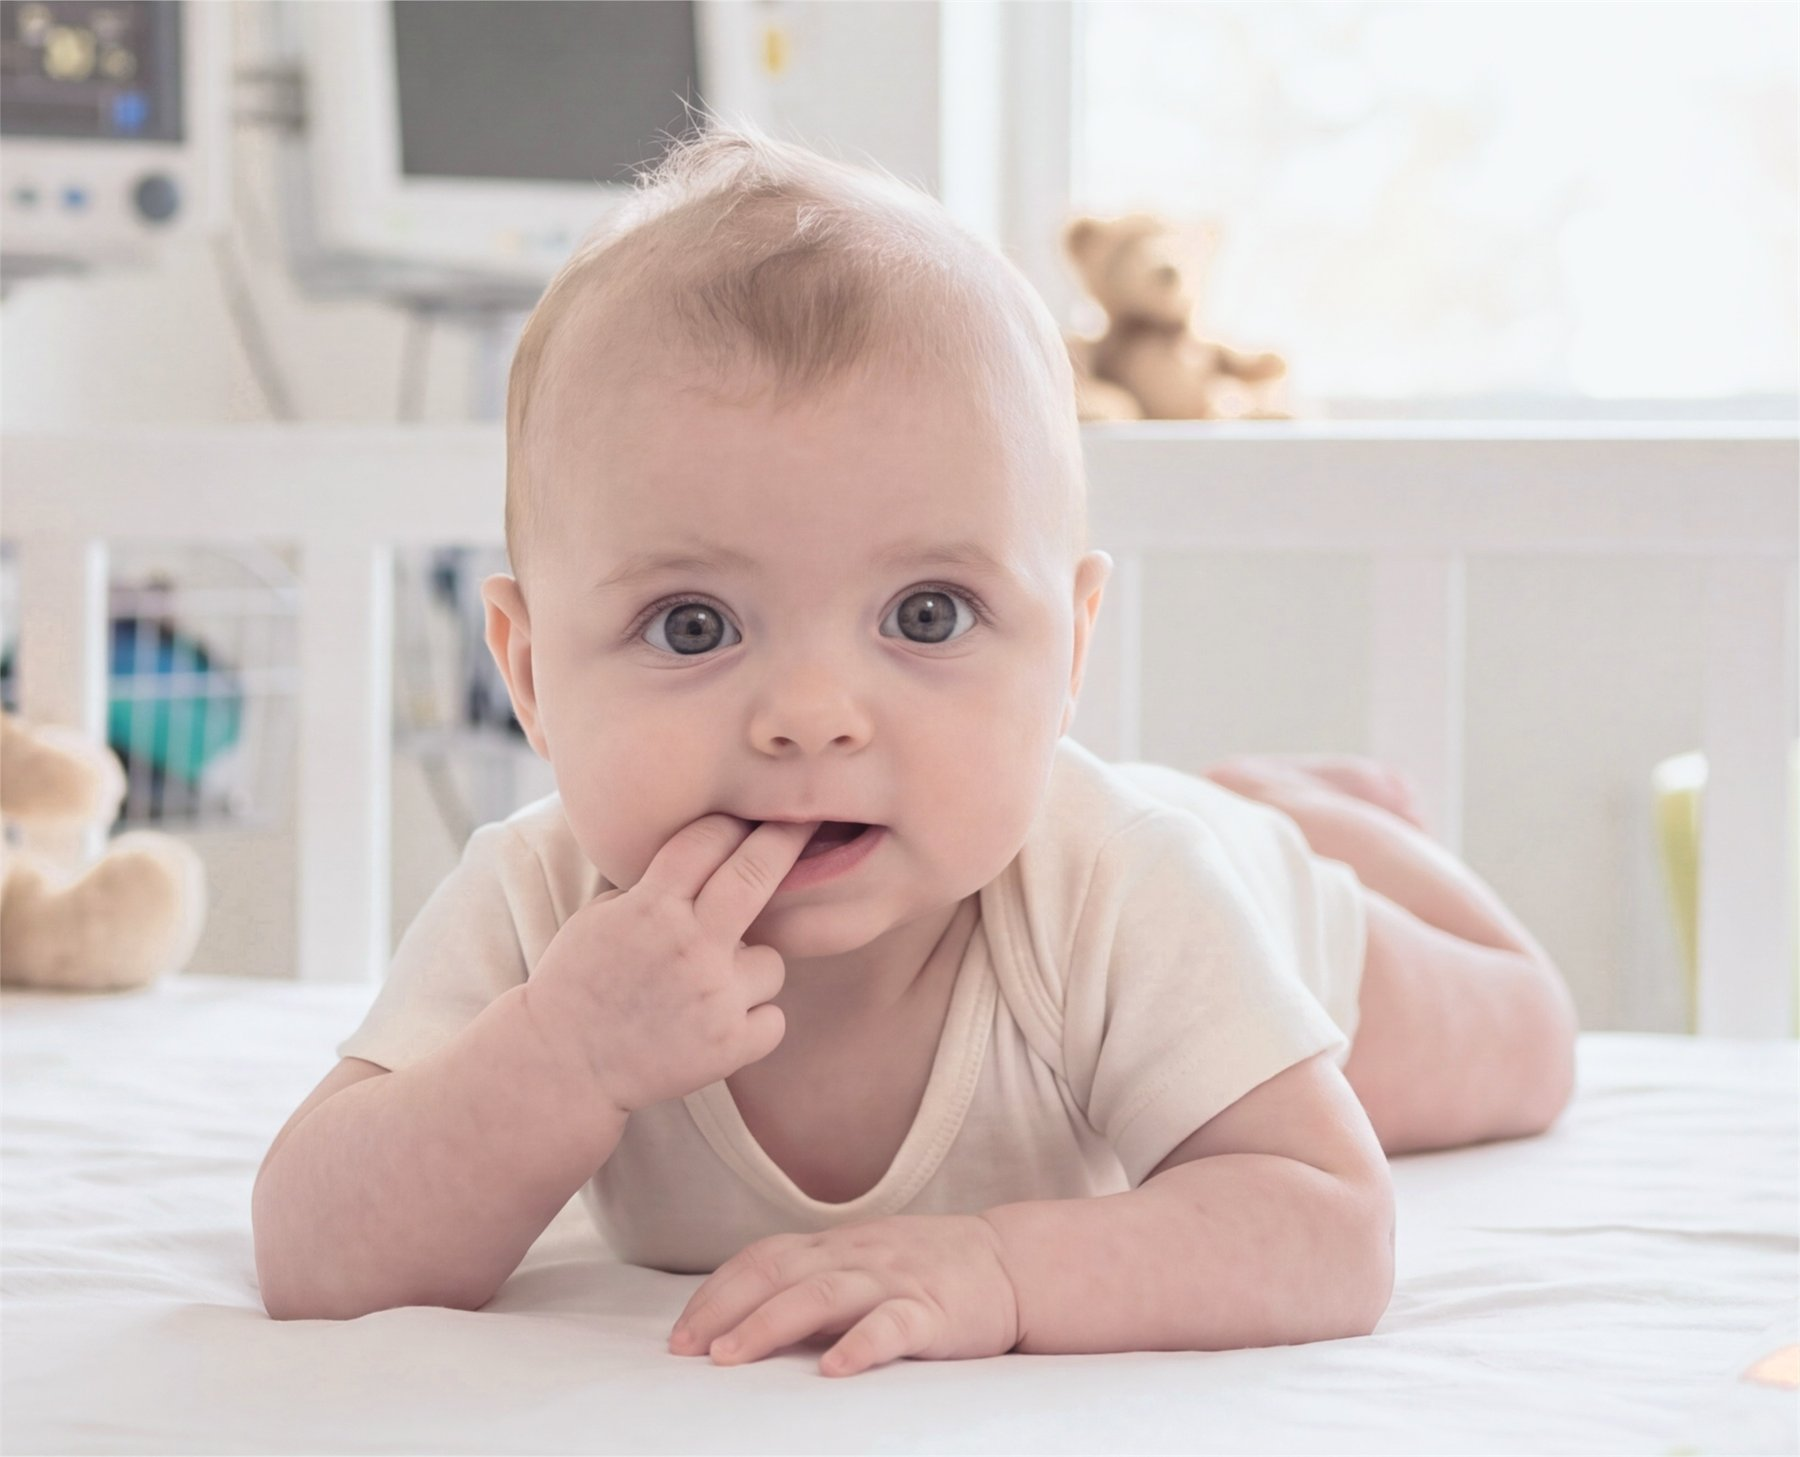
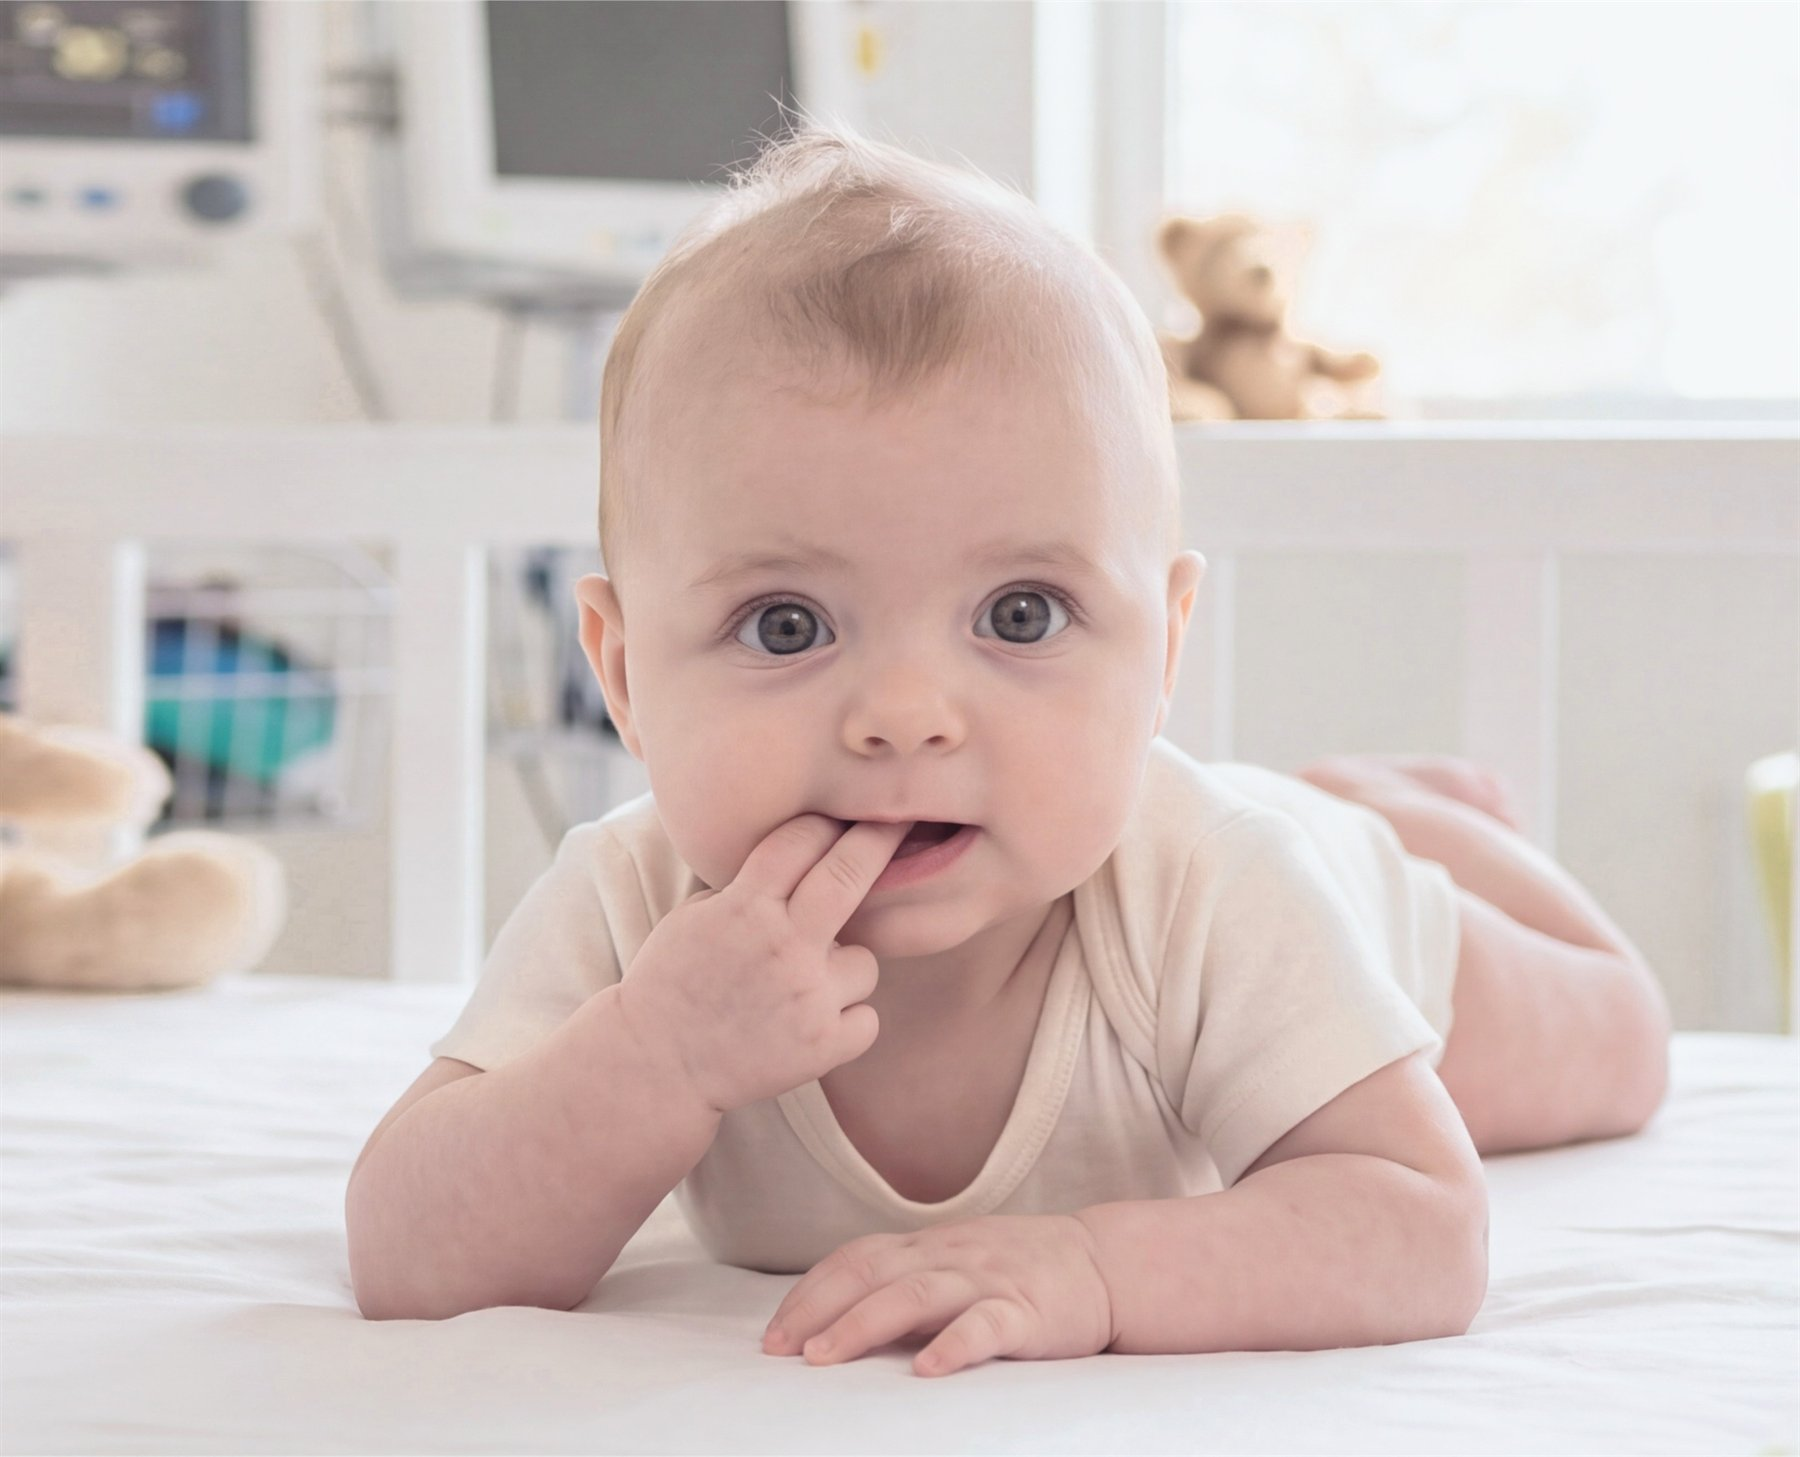
Слайдер: обновлённые фото 02 и 03 от пользователя

diff --git a/app-concept.html b/app-concept.html
@@ -9,7 +9,7 @@
   <link rel="preconnect" href="https://fonts.googleapis.com">
   <link rel="preconnect" href="https://fonts.gstatic.com" crossorigin>
   <link href="https://fonts.googleapis.com/css2?family=Comfortaa:wght@400;600;700&family=Nunito:wght@400;600;700;800&display=swap" rel="stylesheet">
-  <link rel="stylesheet" href="css/style.css?v=202610011425">
+  <link rel="stylesheet" href="css/style.css?v=202610011432">
   <style>
     /* ---------- страница ---------- */
     .concept-hero { background: linear-gradient(120deg, var(--p600), var(--p800)); color: #fff; border-radius: 32px; padding: 44px 48px; margin-top: 24px; display: grid; grid-template-columns: 1.2fr .8fr; gap: 32px; align-items: center; position: relative; overflow: hidden; }
@@ -778,8 +778,8 @@
   <symbol id="a-alert" viewBox="0 0 24 24" fill="none" stroke="currentColor" stroke-width="2" stroke-linecap="round" stroke-linejoin="round"><circle cx="12" cy="12" r="9"/><path d="M12 7v6M12 16h.01"/></symbol>
 </svg>
 
-<script src="js/data.js?v=202610011425"></script>
-<script src="js/photos.js?v=202610011425"></script>
-<script src="js/main.js?v=202610011425"></script>
+<script src="js/data.js?v=202610011432"></script>
+<script src="js/photos.js?v=202610011432"></script>
+<script src="js/main.js?v=202610011432"></script>
 </body>
 </html>

diff --git a/rostomer.html b/rostomer.html
@@ -8,7 +8,7 @@
   <link rel="preconnect" href="https://fonts.googleapis.com">
   <link rel="preconnect" href="https://fonts.gstatic.com" crossorigin>
   <link href="https://fonts.googleapis.com/css2?family=Comfortaa:wght@400;600;700&family=Nunito:wght@400;600;700;800&display=swap" rel="stylesheet">
-  <link rel="stylesheet" href="css/style.css?v=202610011425">
+  <link rel="stylesheet" href="css/style.css?v=202610011432">
   <style>
     .intro { background: #fff; border-radius: var(--radius); padding: 24px 28px; box-shadow: var(--shadow); margin-bottom: 28px; }
     .intro p { margin: 0 0 8px; font-size: 15px; }
@@ -90,10 +90,10 @@
   </div>
 </section>
 
-<script src="js/data.js?v=202610011425"></script>
-<script src="js/photos.js?v=202610011425"></script>
-<script src="js/main.js?v=202610011425"></script>
-<script src="js/rostomer.js?v=202610011425"></script>
+<script src="js/data.js?v=202610011432"></script>
+<script src="js/photos.js?v=202610011432"></script>
+<script src="js/main.js?v=202610011432"></script>
+<script src="js/rostomer.js?v=202610011432"></script>
 <script>
 (function () {
   window.ROSTOMER.variants.forEach(function (v, i) {

diff --git a/index.html b/index.html
@@ -9,7 +9,7 @@
   <link rel="preconnect" href="https://fonts.googleapis.com">
   <link rel="preconnect" href="https://fonts.gstatic.com" crossorigin>
   <link href="https://fonts.googleapis.com/css2?family=Comfortaa:wght@400;600;700&family=Nunito:wght@400;600;700;800&display=swap" rel="stylesheet">
-  <link rel="stylesheet" href="css/style.css?v=202610011425">
+  <link rel="stylesheet" href="css/style.css?v=202610011432">
 </head>
 <body>
 
@@ -237,8 +237,8 @@
   </div>
 </section>
 
-<script src="js/data.js?v=202610011425"></script>
-<script src="js/photos.js?v=202610011425"></script>
-<script src="js/main.js?v=202610011425"></script>
+<script src="js/data.js?v=202610011432"></script>
+<script src="js/photos.js?v=202610011432"></script>
+<script src="js/main.js?v=202610011432"></script>
 </body>
 </html>

diff --git a/ceny.html b/ceny.html
@@ -9,7 +9,7 @@
   <link rel="preconnect" href="https://fonts.googleapis.com">
   <link rel="preconnect" href="https://fonts.gstatic.com" crossorigin>
   <link href="https://fonts.googleapis.com/css2?family=Comfortaa:wght@400;600;700&family=Nunito:wght@400;600;700;800&display=swap" rel="stylesheet">
-  <link rel="stylesheet" href="css/style.css?v=202610011425">
+  <link rel="stylesheet" href="css/style.css?v=202610011432">
 </head>
 <body>
 
@@ -63,8 +63,8 @@
   </div>
 </section>
 
-<script src="js/data.js?v=202610011425"></script>
-<script src="js/photos.js?v=202610011425"></script>
-<script src="js/main.js?v=202610011425"></script>
+<script src="js/data.js?v=202610011432"></script>
+<script src="js/photos.js?v=202610011432"></script>
+<script src="js/main.js?v=202610011432"></script>
 </body>
 </html>

diff --git a/kontakty.html b/kontakty.html
@@ -9,7 +9,7 @@
   <link rel="preconnect" href="https://fonts.googleapis.com">
   <link rel="preconnect" href="https://fonts.gstatic.com" crossorigin>
   <link href="https://fonts.googleapis.com/css2?family=Comfortaa:wght@400;600;700&family=Nunito:wght@400;600;700;800&display=swap" rel="stylesheet">
-  <link rel="stylesheet" href="css/style.css?v=202610011425">
+  <link rel="stylesheet" href="css/style.css?v=202610011432">
 </head>
 <body>
 
@@ -55,8 +55,8 @@
   </div>
 </section>
 
-<script src="js/data.js?v=202610011425"></script>
-<script src="js/photos.js?v=202610011425"></script>
-<script src="js/main.js?v=202610011425"></script>
+<script src="js/data.js?v=202610011432"></script>
+<script src="js/photos.js?v=202610011432"></script>
+<script src="js/main.js?v=202610011432"></script>
 </body>
 </html>

diff --git a/o-klinike.html b/o-klinike.html
@@ -9,7 +9,7 @@
   <link rel="preconnect" href="https://fonts.googleapis.com">
   <link rel="preconnect" href="https://fonts.gstatic.com" crossorigin>
   <link href="https://fonts.googleapis.com/css2?family=Comfortaa:wght@400;600;700&family=Nunito:wght@400;600;700;800&display=swap" rel="stylesheet">
-  <link rel="stylesheet" href="css/style.css?v=202610011425">
+  <link rel="stylesheet" href="css/style.css?v=202610011432">
 </head>
 <body>
 
@@ -91,8 +91,8 @@
   </div>
 </section>
 
-<script src="js/data.js?v=202610011425"></script>
-<script src="js/photos.js?v=202610011425"></script>
-<script src="js/main.js?v=202610011425"></script>
+<script src="js/data.js?v=202610011432"></script>
+<script src="js/photos.js?v=202610011432"></script>
+<script src="js/main.js?v=202610011432"></script>
 </body>
 </html>

diff --git a/poleznoe.html b/poleznoe.html
@@ -9,7 +9,7 @@
   <link rel="preconnect" href="https://fonts.googleapis.com">
   <link rel="preconnect" href="https://fonts.gstatic.com" crossorigin>
   <link href="https://fonts.googleapis.com/css2?family=Comfortaa:wght@400;600;700&family=Nunito:wght@400;600;700;800&display=swap" rel="stylesheet">
-  <link rel="stylesheet" href="css/style.css?v=202610011425">
+  <link rel="stylesheet" href="css/style.css?v=202610011432">
 </head>
 <body>
 
@@ -33,8 +33,8 @@
   </div>
 </section>
 
-<script src="js/data.js?v=202610011425"></script>
-<script src="js/photos.js?v=202610011425"></script>
-<script src="js/main.js?v=202610011425"></script>
+<script src="js/data.js?v=202610011432"></script>
+<script src="js/photos.js?v=202610011432"></script>
+<script src="js/main.js?v=202610011432"></script>
 </body>
 </html>

diff --git a/uslugi.html b/uslugi.html
@@ -9,7 +9,7 @@
   <link rel="preconnect" href="https://fonts.googleapis.com">
   <link rel="preconnect" href="https://fonts.gstatic.com" crossorigin>
   <link href="https://fonts.googleapis.com/css2?family=Comfortaa:wght@400;600;700&family=Nunito:wght@400;600;700;800&display=swap" rel="stylesheet">
-  <link rel="stylesheet" href="css/style.css?v=202610011425">
+  <link rel="stylesheet" href="css/style.css?v=202610011432">
 </head>
 <body>
 
@@ -57,8 +57,8 @@
   </div>
 </section>
 
-<script src="js/data.js?v=202610011425"></script>
-<script src="js/photos.js?v=202610011425"></script>
-<script src="js/main.js?v=202610011425"></script>
+<script src="js/data.js?v=202610011432"></script>
+<script src="js/photos.js?v=202610011432"></script>
+<script src="js/main.js?v=202610011432"></script>
 </body>
 </html>

diff --git a/uzi.html b/uzi.html
@@ -9,7 +9,7 @@
   <link rel="preconnect" href="https://fonts.googleapis.com">
   <link rel="preconnect" href="https://fonts.gstatic.com" crossorigin>
   <link href="https://fonts.googleapis.com/css2?family=Comfortaa:wght@400;600;700&family=Nunito:wght@400;600;700;800&display=swap" rel="stylesheet">
-  <link rel="stylesheet" href="css/style.css?v=202610011425">
+  <link rel="stylesheet" href="css/style.css?v=202610011432">
 </head>
 <body>
 
@@ -75,8 +75,8 @@
   </div>
 </section>
 
-<script src="js/data.js?v=202610011425"></script>
-<script src="js/photos.js?v=202610011425"></script>
-<script src="js/main.js?v=202610011425"></script>
+<script src="js/data.js?v=202610011432"></script>
+<script src="js/photos.js?v=202610011432"></script>
+<script src="js/main.js?v=202610011432"></script>
 </body>
 </html>

diff --git a/vrachi.html b/vrachi.html
@@ -9,7 +9,7 @@
   <link rel="preconnect" href="https://fonts.googleapis.com">
   <link rel="preconnect" href="https://fonts.gstatic.com" crossorigin>
   <link href="https://fonts.googleapis.com/css2?family=Comfortaa:wght@400;600;700&family=Nunito:wght@400;600;700;800&display=swap" rel="stylesheet">
-  <link rel="stylesheet" href="css/style.css?v=202610011425">
+  <link rel="stylesheet" href="css/style.css?v=202610011432">
 </head>
 <body>
 
@@ -45,8 +45,8 @@
   </div>
 </section>
 
-<script src="js/data.js?v=202610011425"></script>
-<script src="js/photos.js?v=202610011425"></script>
-<script src="js/main.js?v=202610011425"></script>
+<script src="js/data.js?v=202610011432"></script>
+<script src="js/photos.js?v=202610011432"></script>
+<script src="js/main.js?v=202610011432"></script>
 </body>
 </html>
